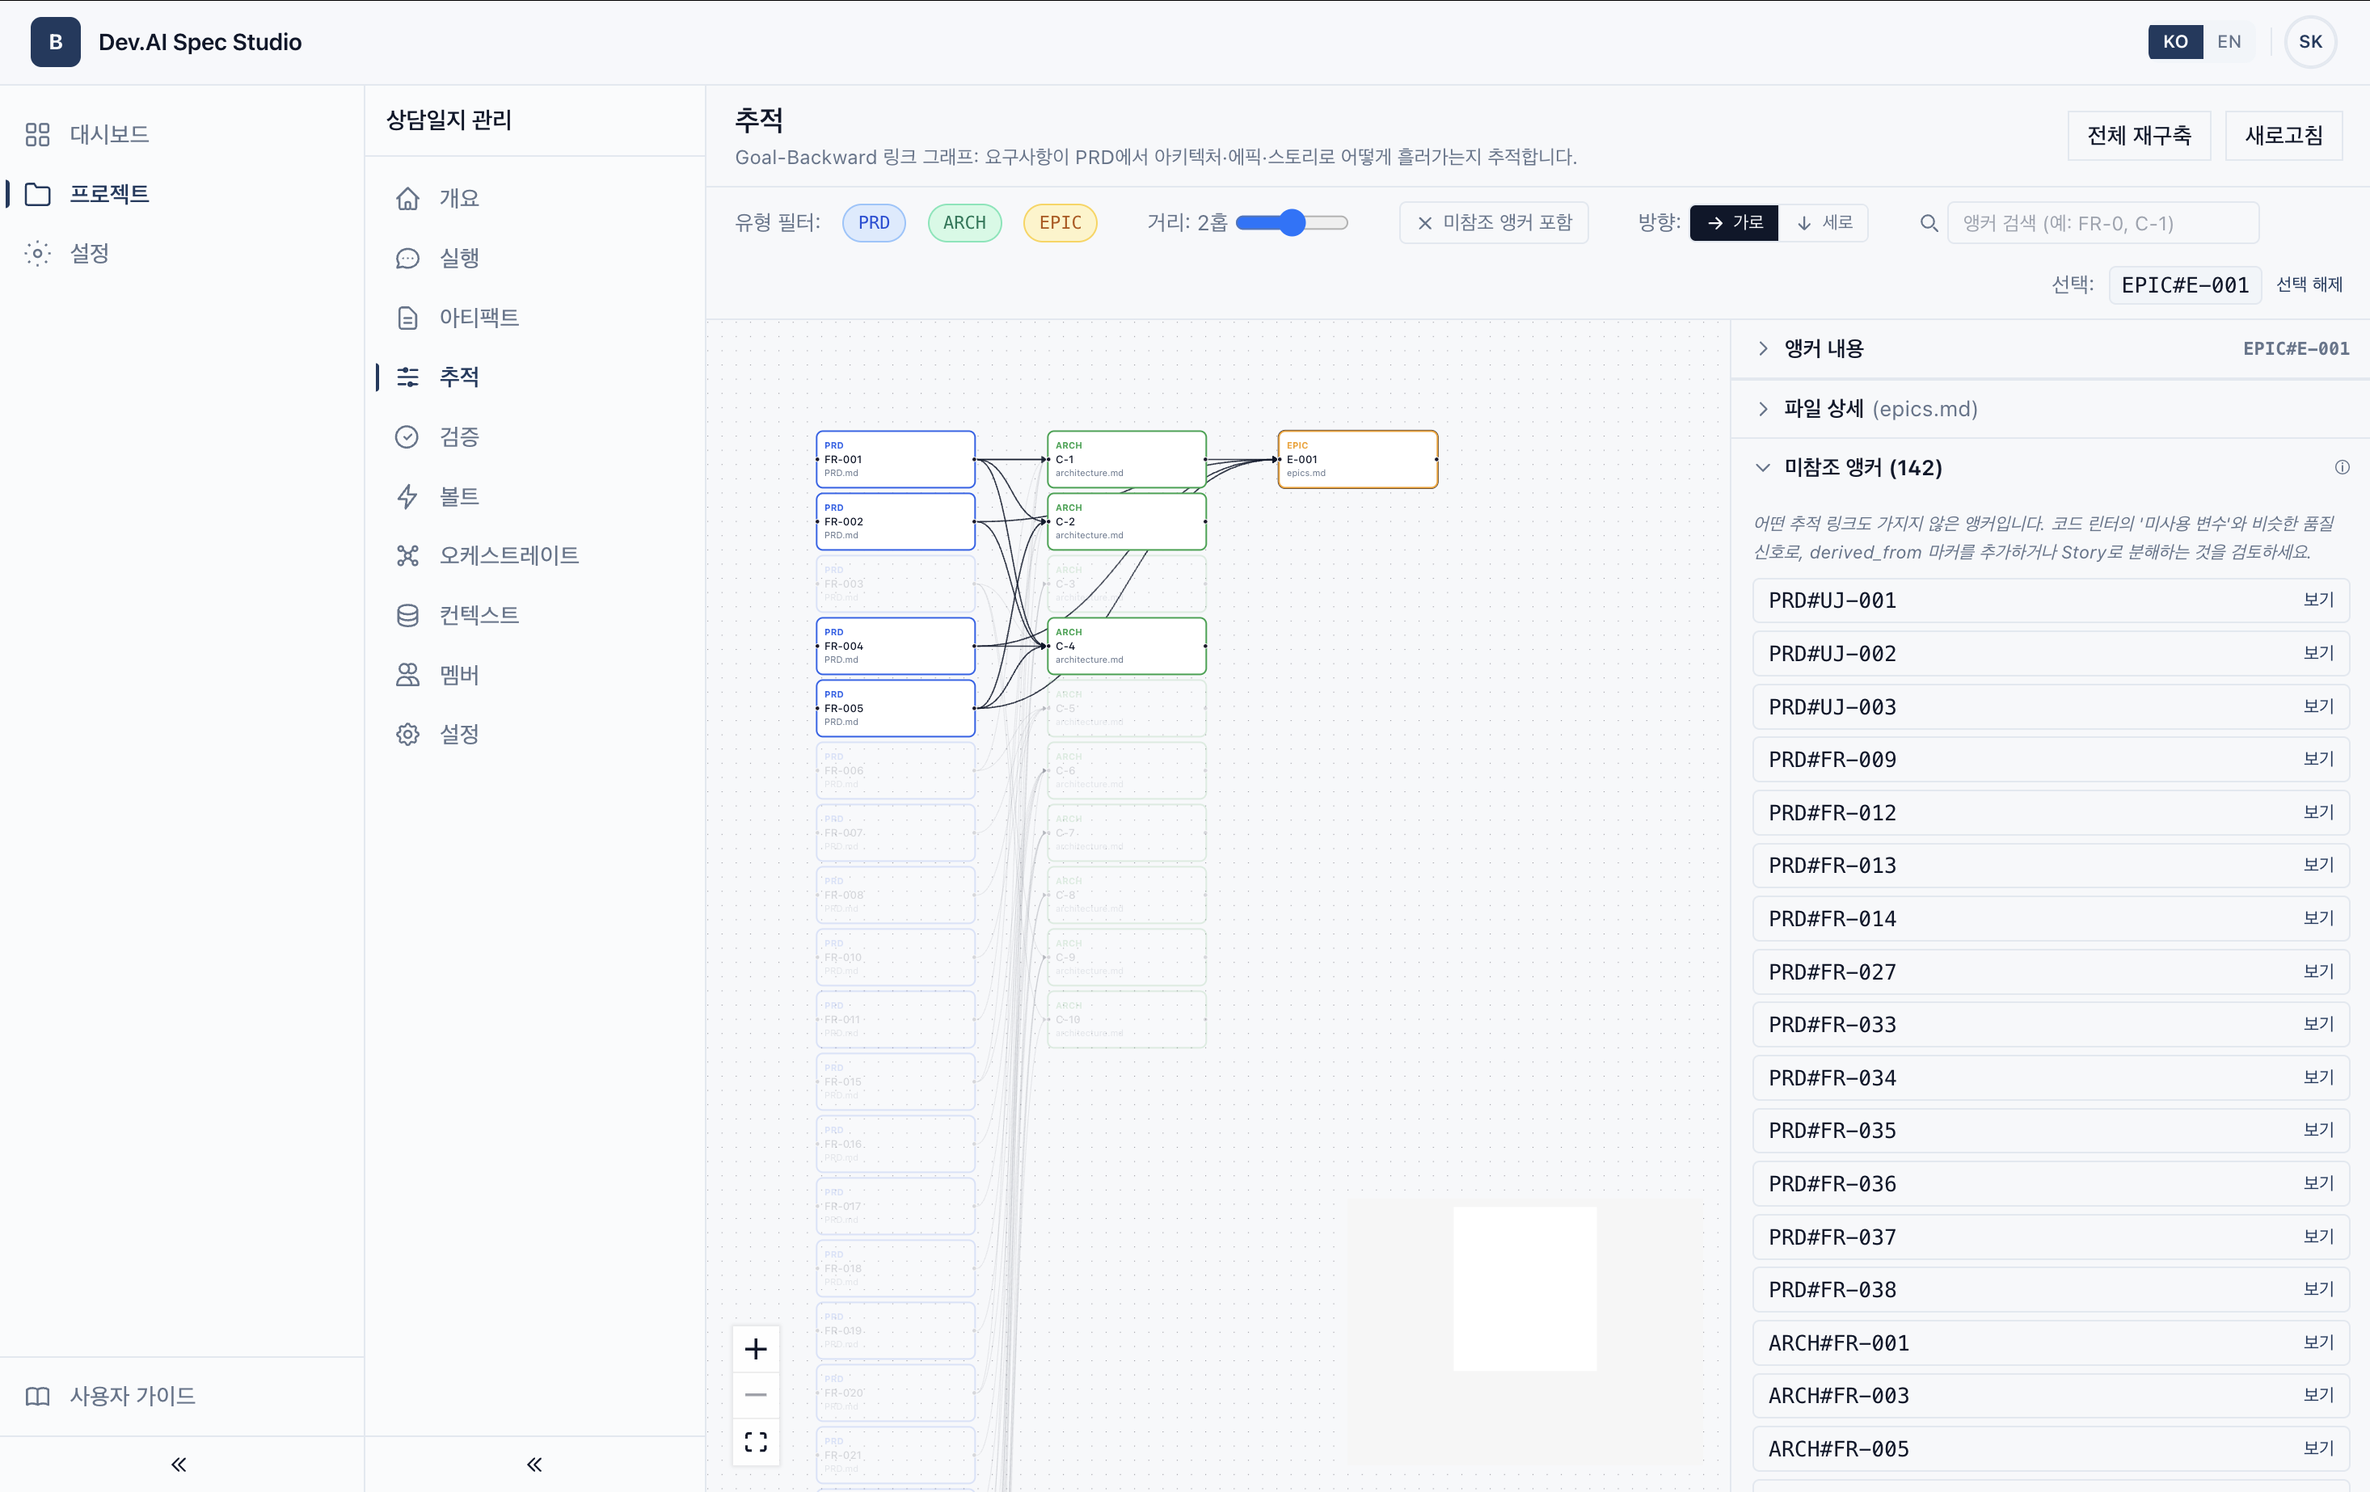
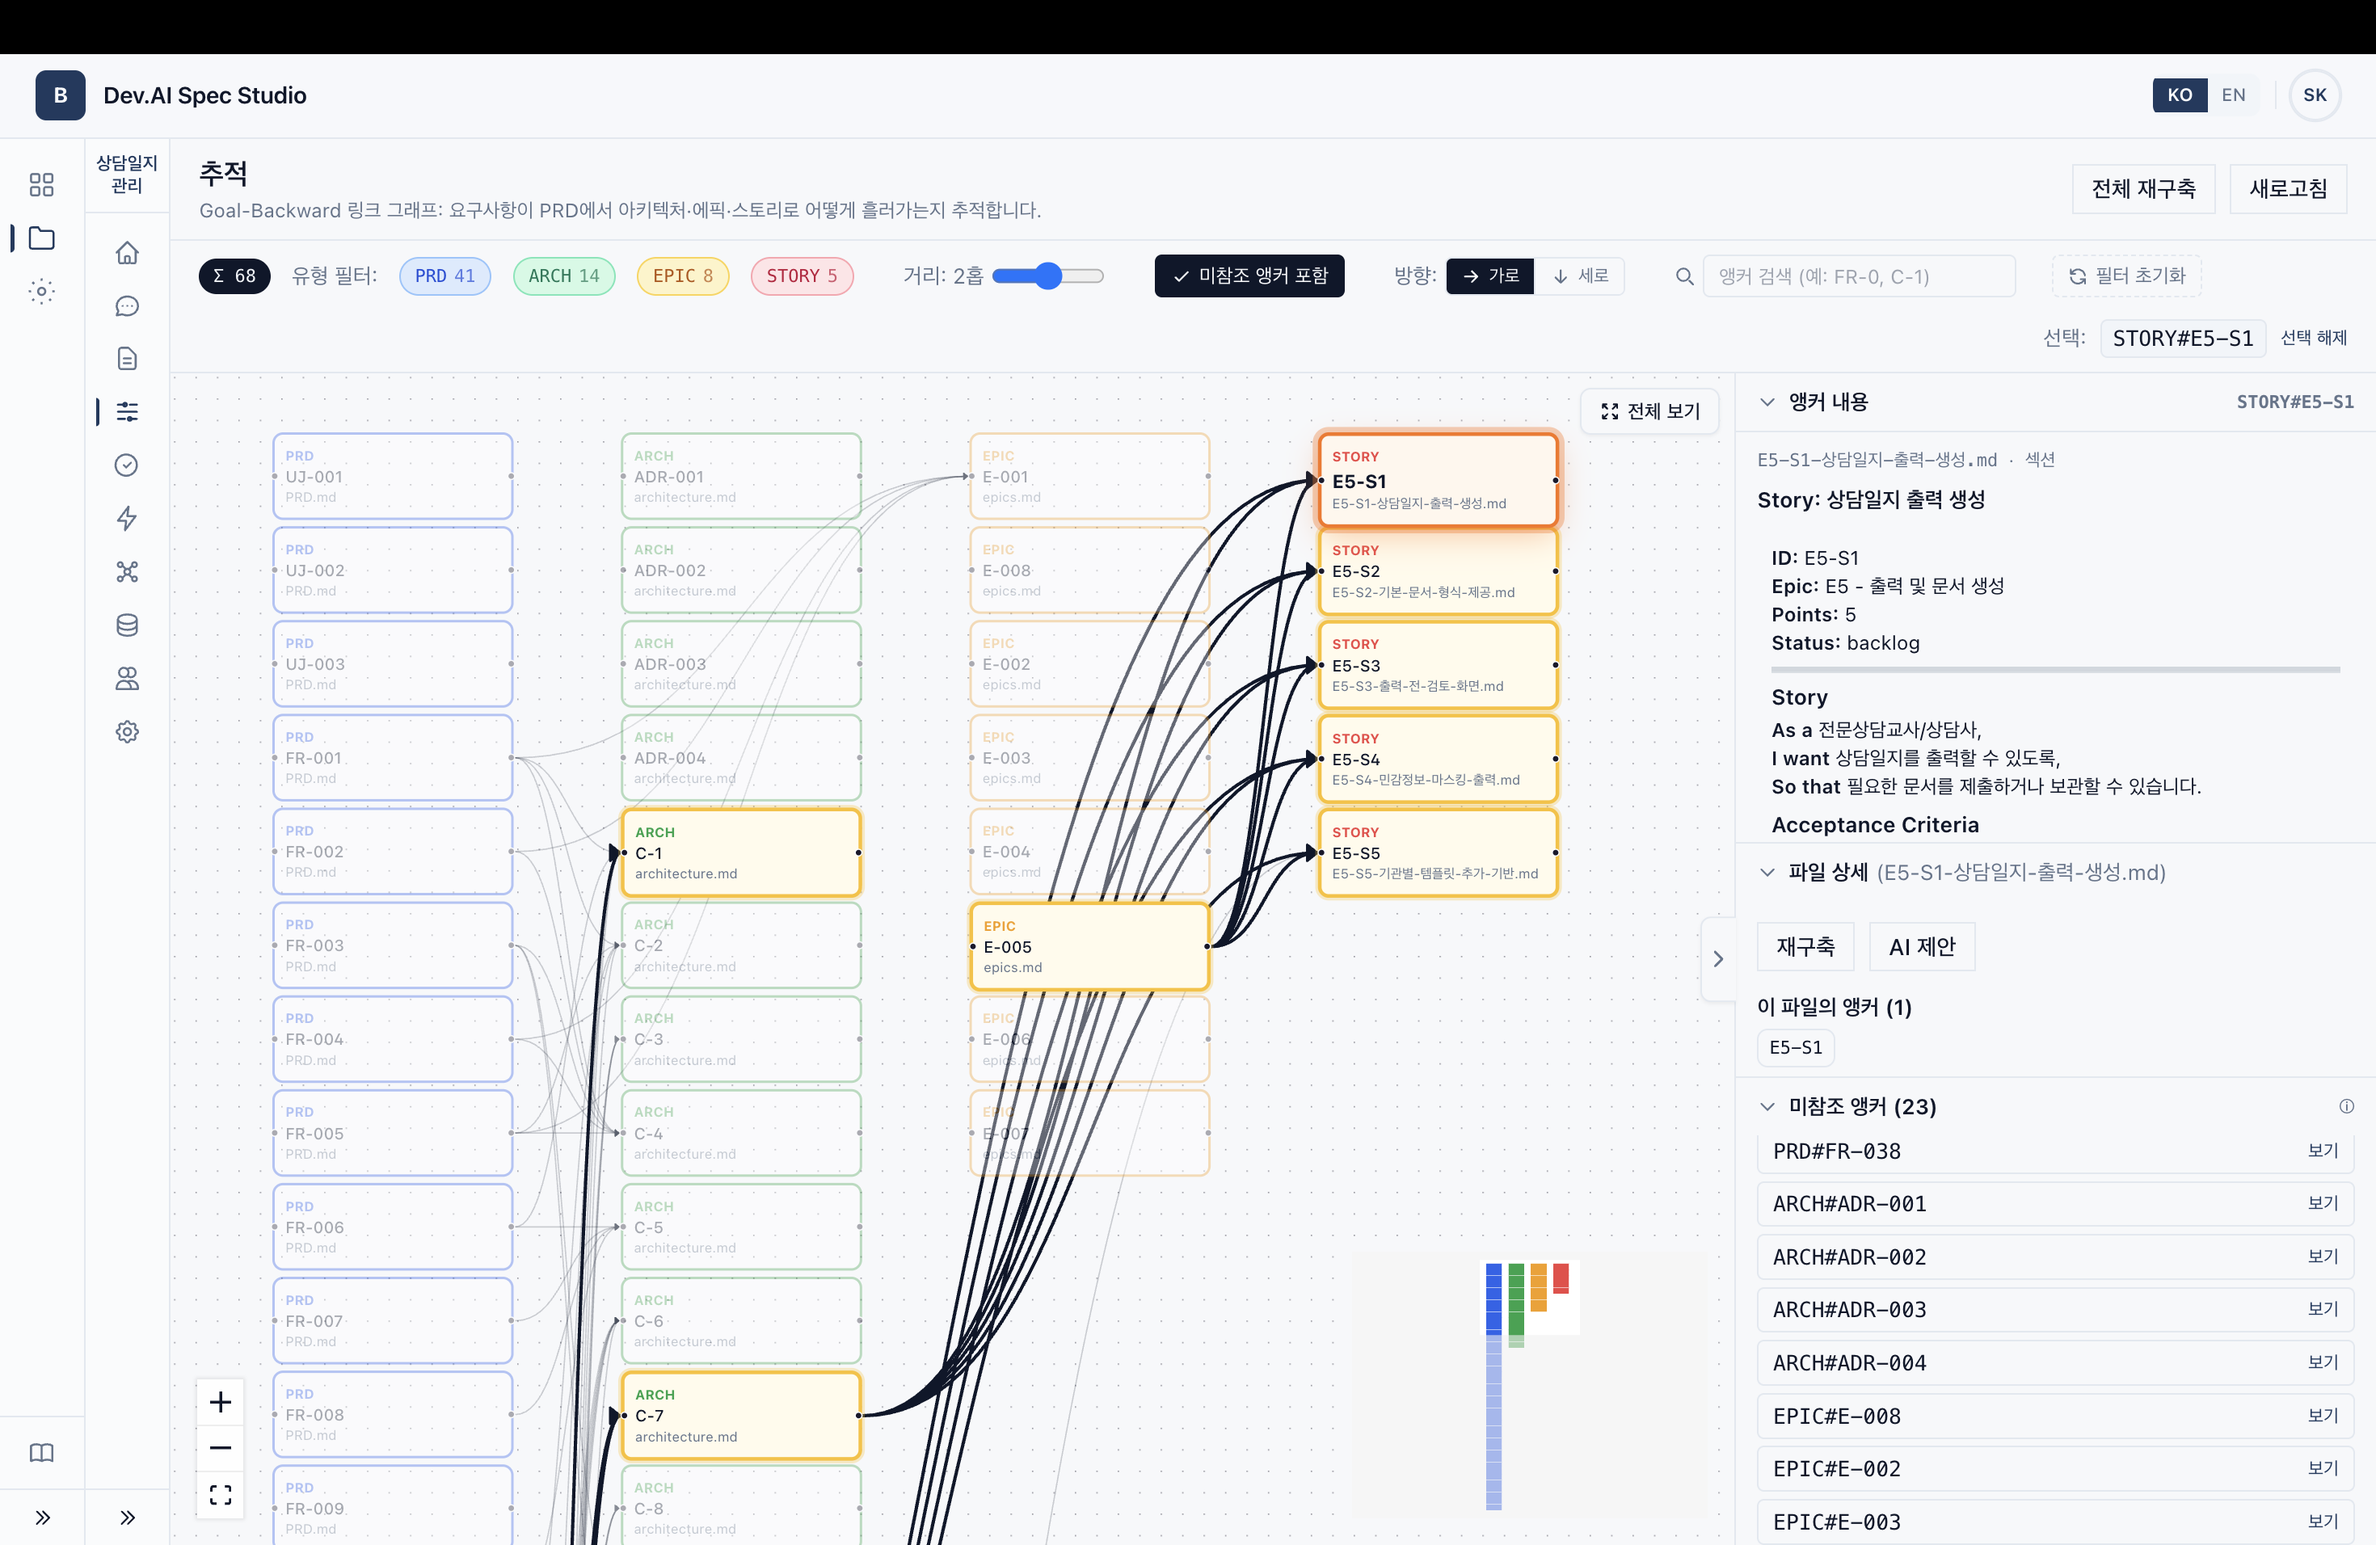
docs: refresh Sample07 + add Sample08 (Story Execution Board) screenshot
- Sample07: 추적성 그래프 이미지 갱신, 캡션을 PRD/ARCH/EPIC/STORY + AI 추천 링크로 확장
- Sample08(신규): 실행 보드(Story kanban) 스크린샷 추가 — 일괄 생성, 미리보기, 편집 deeplink, 카드 드래그&드롭
- README.md / README.en.md 양쪽 동시 반영

diff --git a/README.en.md b/README.en.md
@@ -57,8 +57,11 @@ By combining these, we realize the SDD paradigm where **"Spec is both the starti
 ### System Architecture Canvas — Visual modeling on Xyflow + AI Review
 ![System Architecture](./sample_images/Sample06.png)
 
-### Goal-Backward Traceability — PRD/ARCH/EPIC anchor graph
+### Goal-Backward Traceability — PRD/ARCH/EPIC/STORY anchor graph + AI-suggested links
 ![Traceability](./sample_images/Sample07.png)
+
+### Story Execution Board — Story kanban with bulk-generate / preview / edit deeplink
+![Story Execution Board](./sample_images/Sample08.png)
 
 ---
 

diff --git a/README.md b/README.md
@@ -57,8 +57,11 @@
 ### System Architecture 캔버스 — Xyflow 기반 시각 모델링 + AI Review
 ![System Architecture](./sample_images/Sample06.png)
 
-### Goal-Backward Traceability — PRD/ARCH/EPIC 앵커 그래프
+### Goal-Backward Traceability — PRD/ARCH/EPIC/STORY 앵커 그래프 + AI 추천 링크
 ![Traceability](./sample_images/Sample07.png)
+
+### 실행 보드(Story Execution Board) — Story 단위 칸반 + 일괄 생성 / 미리보기 / 편집 deeplink
+![Story Execution Board](./sample_images/Sample08.png)
 
 ---
 
